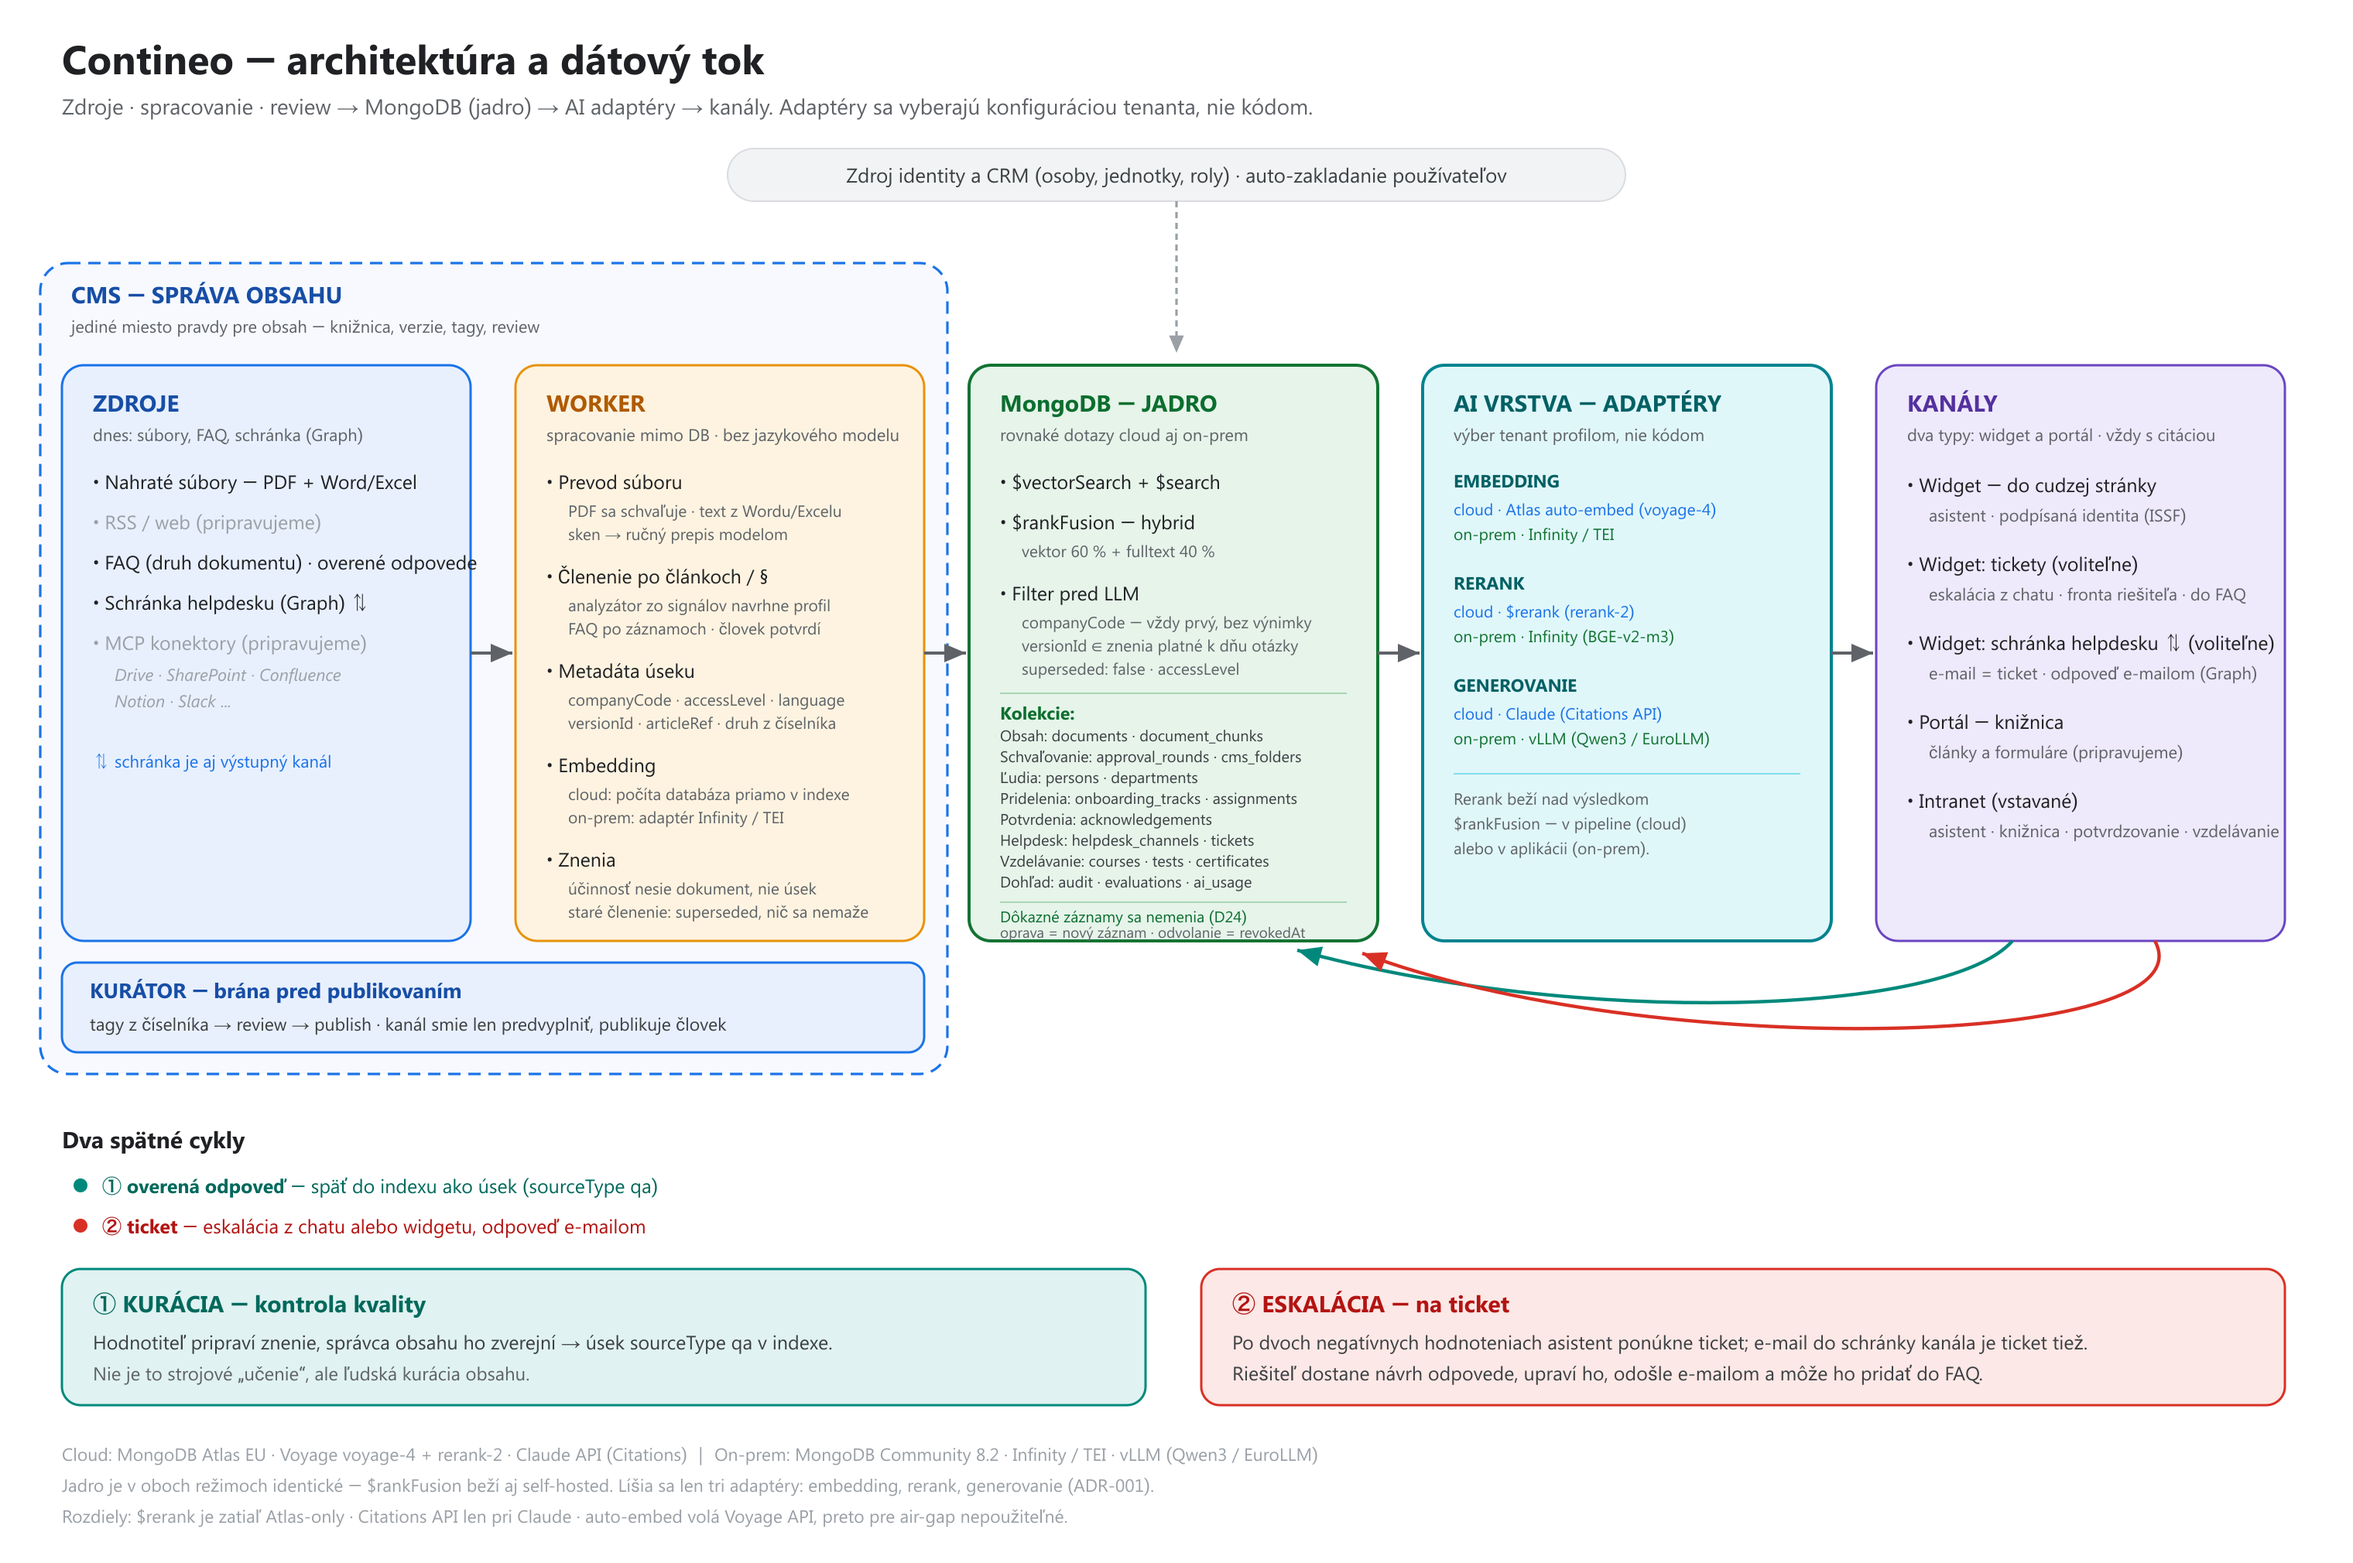
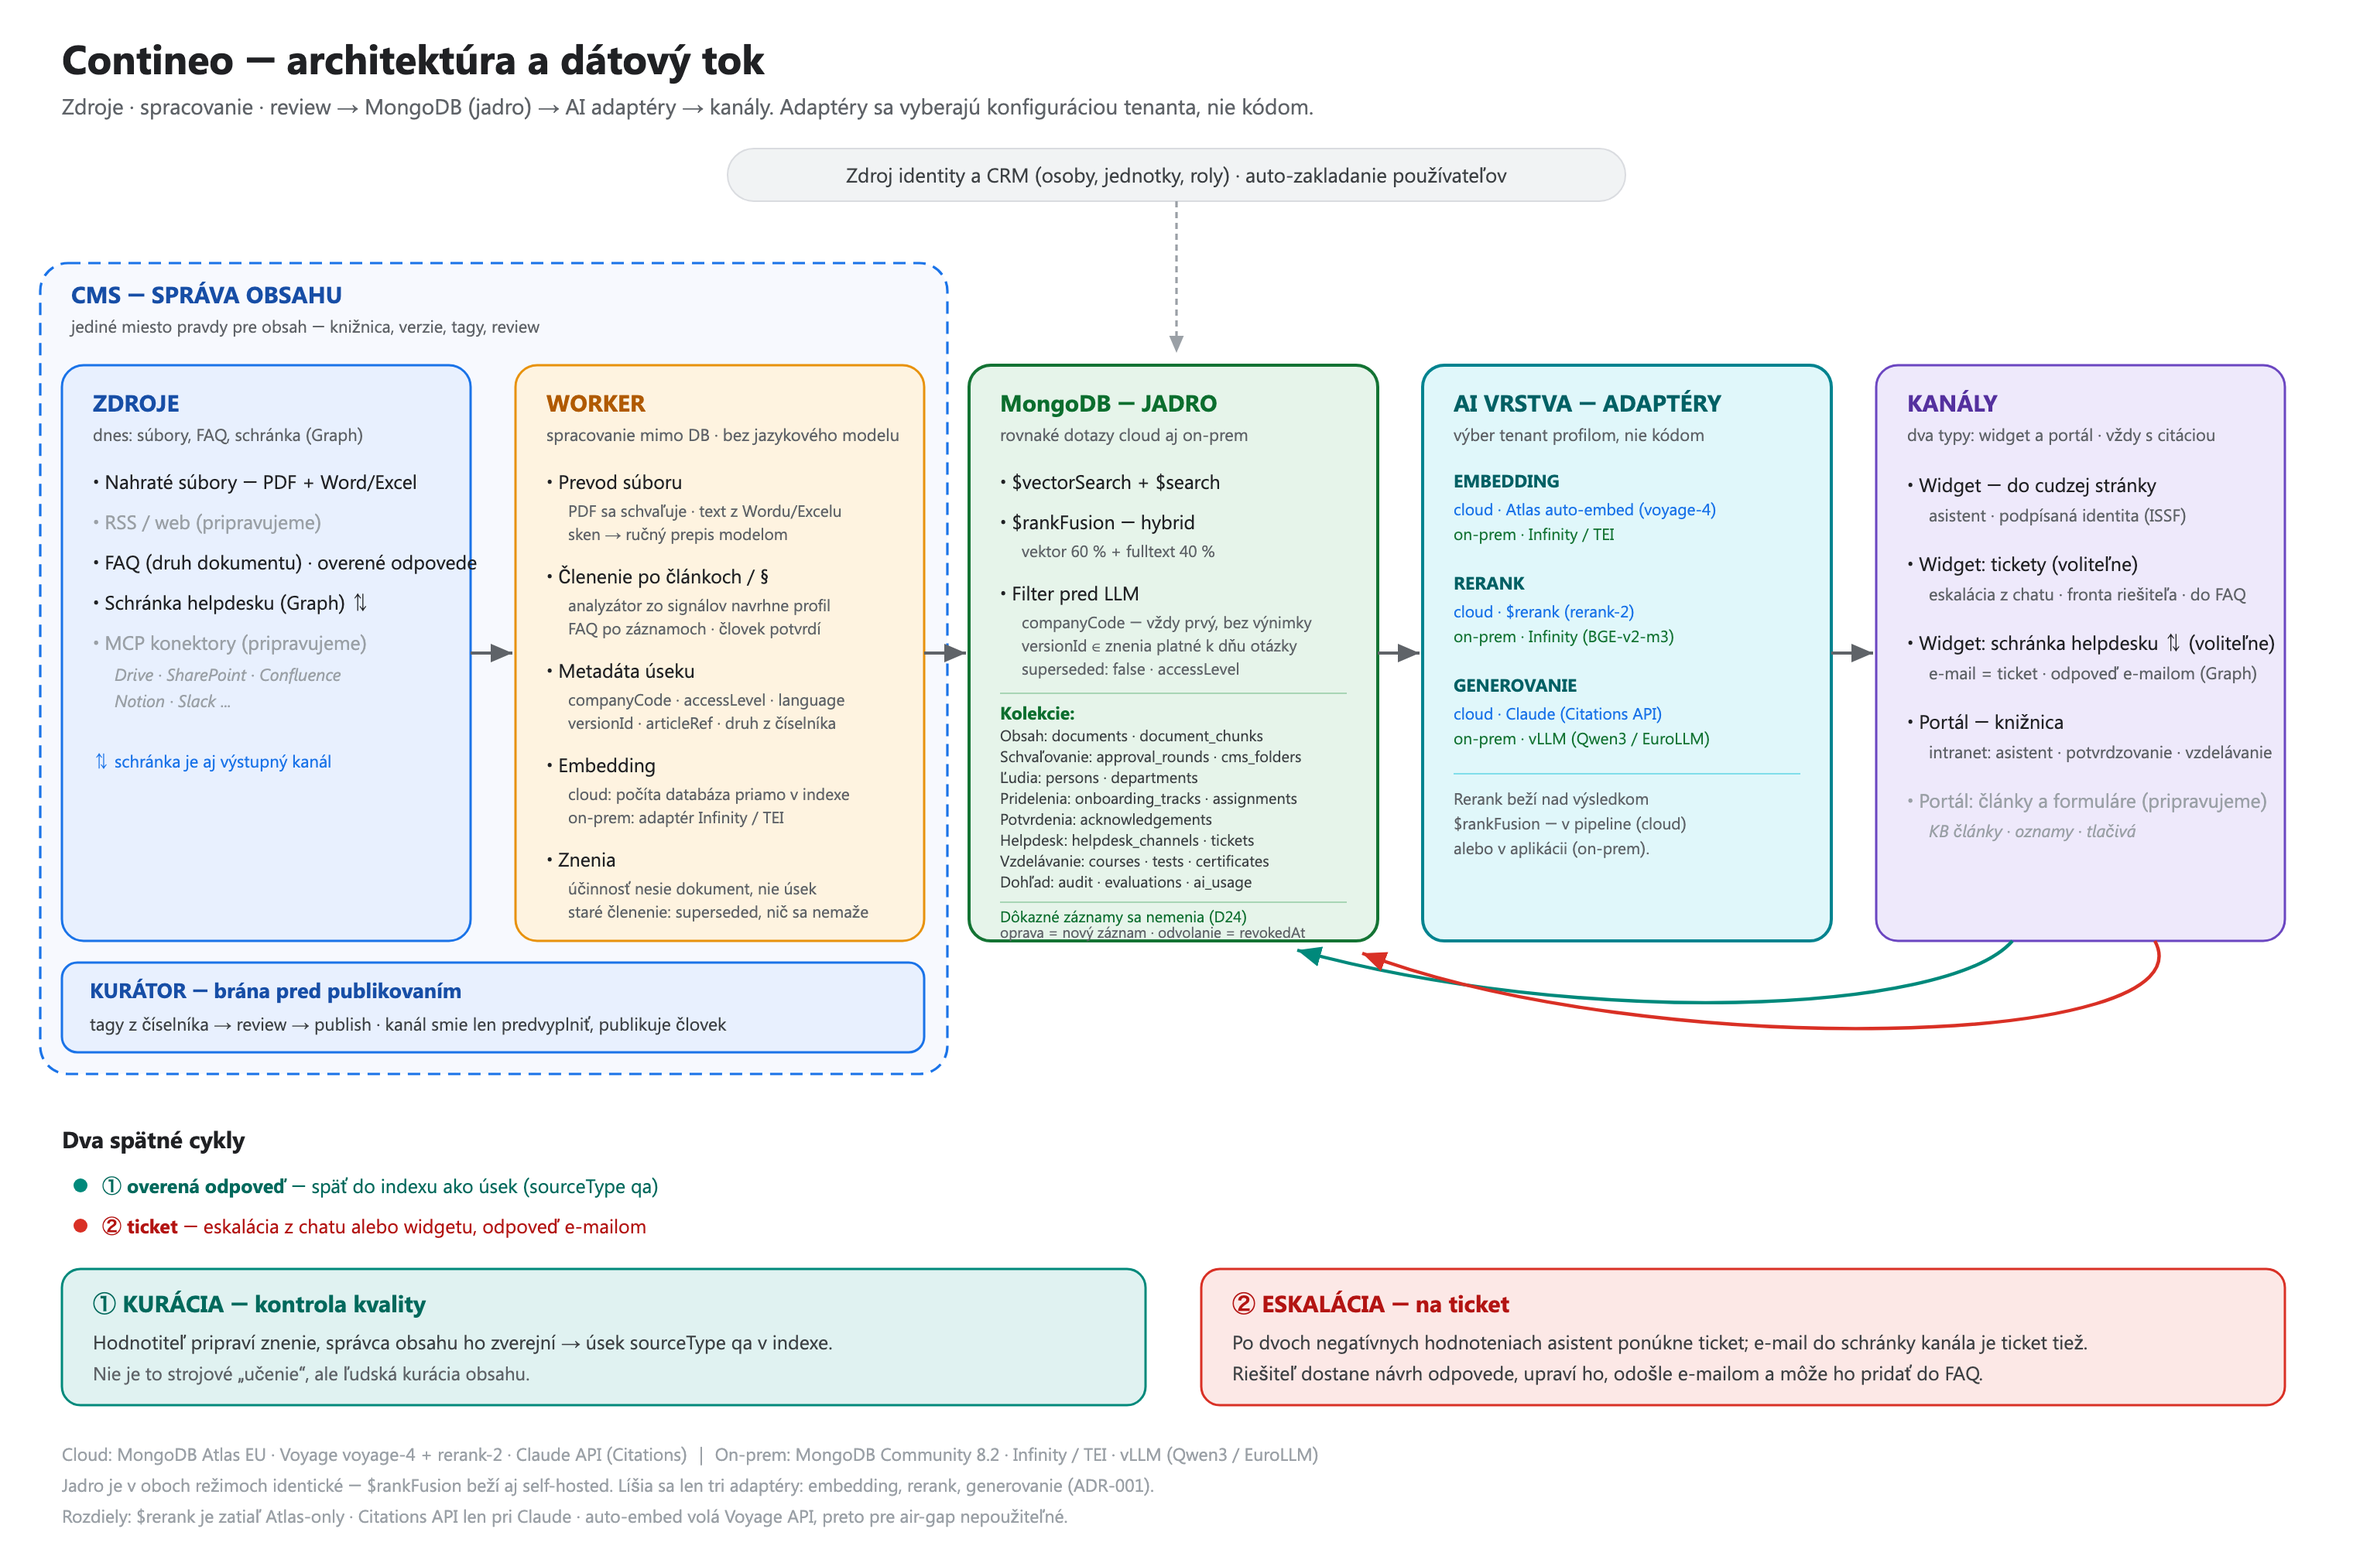
Web: kanály sú dva typy — intranet patrí pod portál (D169)
Obrázok mal popri widgete a portáli tretiu položku „Intranet (vstavané)",
hoci D169 pozná dva typy a intranet je čitateľský pohľad portálu. Intranet
je teraz pod portálom, články a formuláre sivé ako pripravované. Sekcia
„Režimy nasadenia" na Technológii sa volá „Dva typy kanála" a používa tie
isté názvy ako obrázok. sk, cs, en; PNG z SVG.

diff --git a/web/lib/dictionaries.js b/web/lib/dictionaries.js
@@ -795,10 +795,10 @@ export const dictionaries = {
           "Filter pred LLM — model vidí len povolené chunky; nedá sa obísť promptom (platí aj pre citácie).",
           "Auto-provisioning — osoba sa založí pri prvom prihlásení cez SSO z domény povolenej organizáciou. Priebežnú synchronizáciu rolí z CRM pripravujeme.",
         ],
-        modesTitle: "Režimy nasadenia",
+        modesTitle: "Dva typy kanála",
         modes: [
-          { name: "Interný portál (SSO)", text: "dnes jediný režim: prihlásený človek vidí verejný aj interný obsah svojej organizácie." },
-          { name: "Vložený widget s podpísanou identitou", text: "cudzí systém (prvý je ISSF) odovzdá identitu používateľa podpísaným tokenom; widget odpovedá z obsahu kanála a po dvoch negatívnych hodnoteniach otvorí ticket. Osoba z tokenu sa do intranetu neprihlási. Anonymný verejný režim pripravujeme." },
+          { name: "Portál (interný, SSO)", text: "prihlásený človek vidí verejný aj interný obsah svojej organizácie — knižnica, asistent, potvrdzovanie, vzdelávanie. Články a formuláre pre portál pripravujeme." },
+          { name: "Widget s podpísanou identitou", text: "cudzí systém (prvý je ISSF) odovzdá identitu používateľa podpísaným tokenom; widget odpovedá z obsahu kanála a po dvoch negatívnych hodnoteniach otvorí ticket. Osoba z tokenu sa do intranetu neprihlási. Anonymný verejný režim pripravujeme." },
         ],
       },
     },
@@ -1654,10 +1654,10 @@ export const dictionaries = {
           "Filtr před LLM — model vidí jen povolené chunky; nedá se obejít promptem (platí i pro citace).",
           "Auto-provisioning — osoba se založí při prvním přihlášení přes SSO z domény povolené organizací. Průběžnou synchronizaci rolí z CRM připravujeme.",
         ],
-        modesTitle: "Režimy nasazení",
+        modesTitle: "Dva typy kanálu",
         modes: [
-          { name: "Interní portál (SSO)", text: "dnes jediný režim: přihlášený člověk vidí veřejný i interní obsah své organizace." },
-          { name: "Vložený widget s podepsanou identitou", text: "cizí systém (první je ISSF) předá identitu uživatele podepsaným tokenem; widget odpovídá z obsahu kanálu a po dvou negativních hodnoceních otevře ticket. Osoba z tokenu se do intranetu nepřihlásí. Anonymní veřejný režim připravujeme." },
+          { name: "Portál (interní, SSO)", text: "přihlášený člověk vidí veřejný i interní obsah své organizace — knihovna, asistent, potvrzování, vzdělávání. Články a formuláře pro portál připravujeme." },
+          { name: "Widget s podepsanou identitou", text: "cizí systém (první je ISSF) předá identitu uživatele podepsaným tokenem; widget odpovídá z obsahu kanálu a po dvou negativních hodnoceních otevře ticket. Osoba z tokenu se do intranetu nepřihlásí. Anonymní veřejný režim připravujeme." },
         ],
       },
     },
@@ -2513,10 +2513,10 @@ export const dictionaries = {
           "Filter before the LLM — the model sees only allowed chunks; it can't be bypassed by a prompt (applies to citations too).",
           "Auto-provisioning — a person is created on first SSO sign-in from a domain the organisation allow-listed. Continuous role syncing from a CRM is in preparation.",
         ],
-        modesTitle: "Deployment modes",
+        modesTitle: "Two kinds of channel",
         modes: [
-          { name: "Internal portal (SSO)", text: "the only mode today: a signed-in person sees public and internal content of their organisation." },
-          { name: "Embedded widget with signed identity", text: "a third-party system (the first is ISSF) passes the user's identity in a signed token; the widget answers from the channel's content and opens a ticket after two negative ratings. A person from a token cannot sign in to the intranet. An anonymous public mode is in preparation." },
+          { name: "Portal (internal, SSO)", text: "a signed-in person sees public and internal content of their organisation — library, assistant, acknowledgement, learning. Articles and forms for the portal are in preparation." },
+          { name: "Widget with signed identity", text: "a third-party system (the first is ISSF) passes the user's identity in a signed token; the widget answers from the channel's content and opens a ticket after two negative ratings. A person from a token cannot sign in to the intranet. An anonymous public mode is in preparation." },
         ],
       },
     },

diff --git a/CHANGELOG.md b/CHANGELOG.md
@@ -4,6 +4,14 @@ Všetky podstatné zmeny projektu Contineo. Formát vychádza z [Keep a Changelo
 
 ## [Unreleased]
 
+### Web contineo.app: kanály sú dva typy — widget a portál (2026-10-06)
+
+V obrázku architektúry je intranet pod **portálom**, nie ako tretí typ
+kanála: „Portál — knižnica · intranet: asistent · potvrdzovanie ·
+vzdelávanie" a sivé „Portál: články a formuláre (pripravujeme)". Sekcia
+na stránke Technológia sa volá „Dva typy kanála" (portál, widget) namiesto
+„Režimy nasadenia". sk, cs, en; PNG pregenerovaná.
+
 ### Test: odpovede ako riadky zoznamu (2026-10-06)
 
 Pri vypĺňaní testu sú textové odpovede riadky zoznamu ako vo formulároch:
